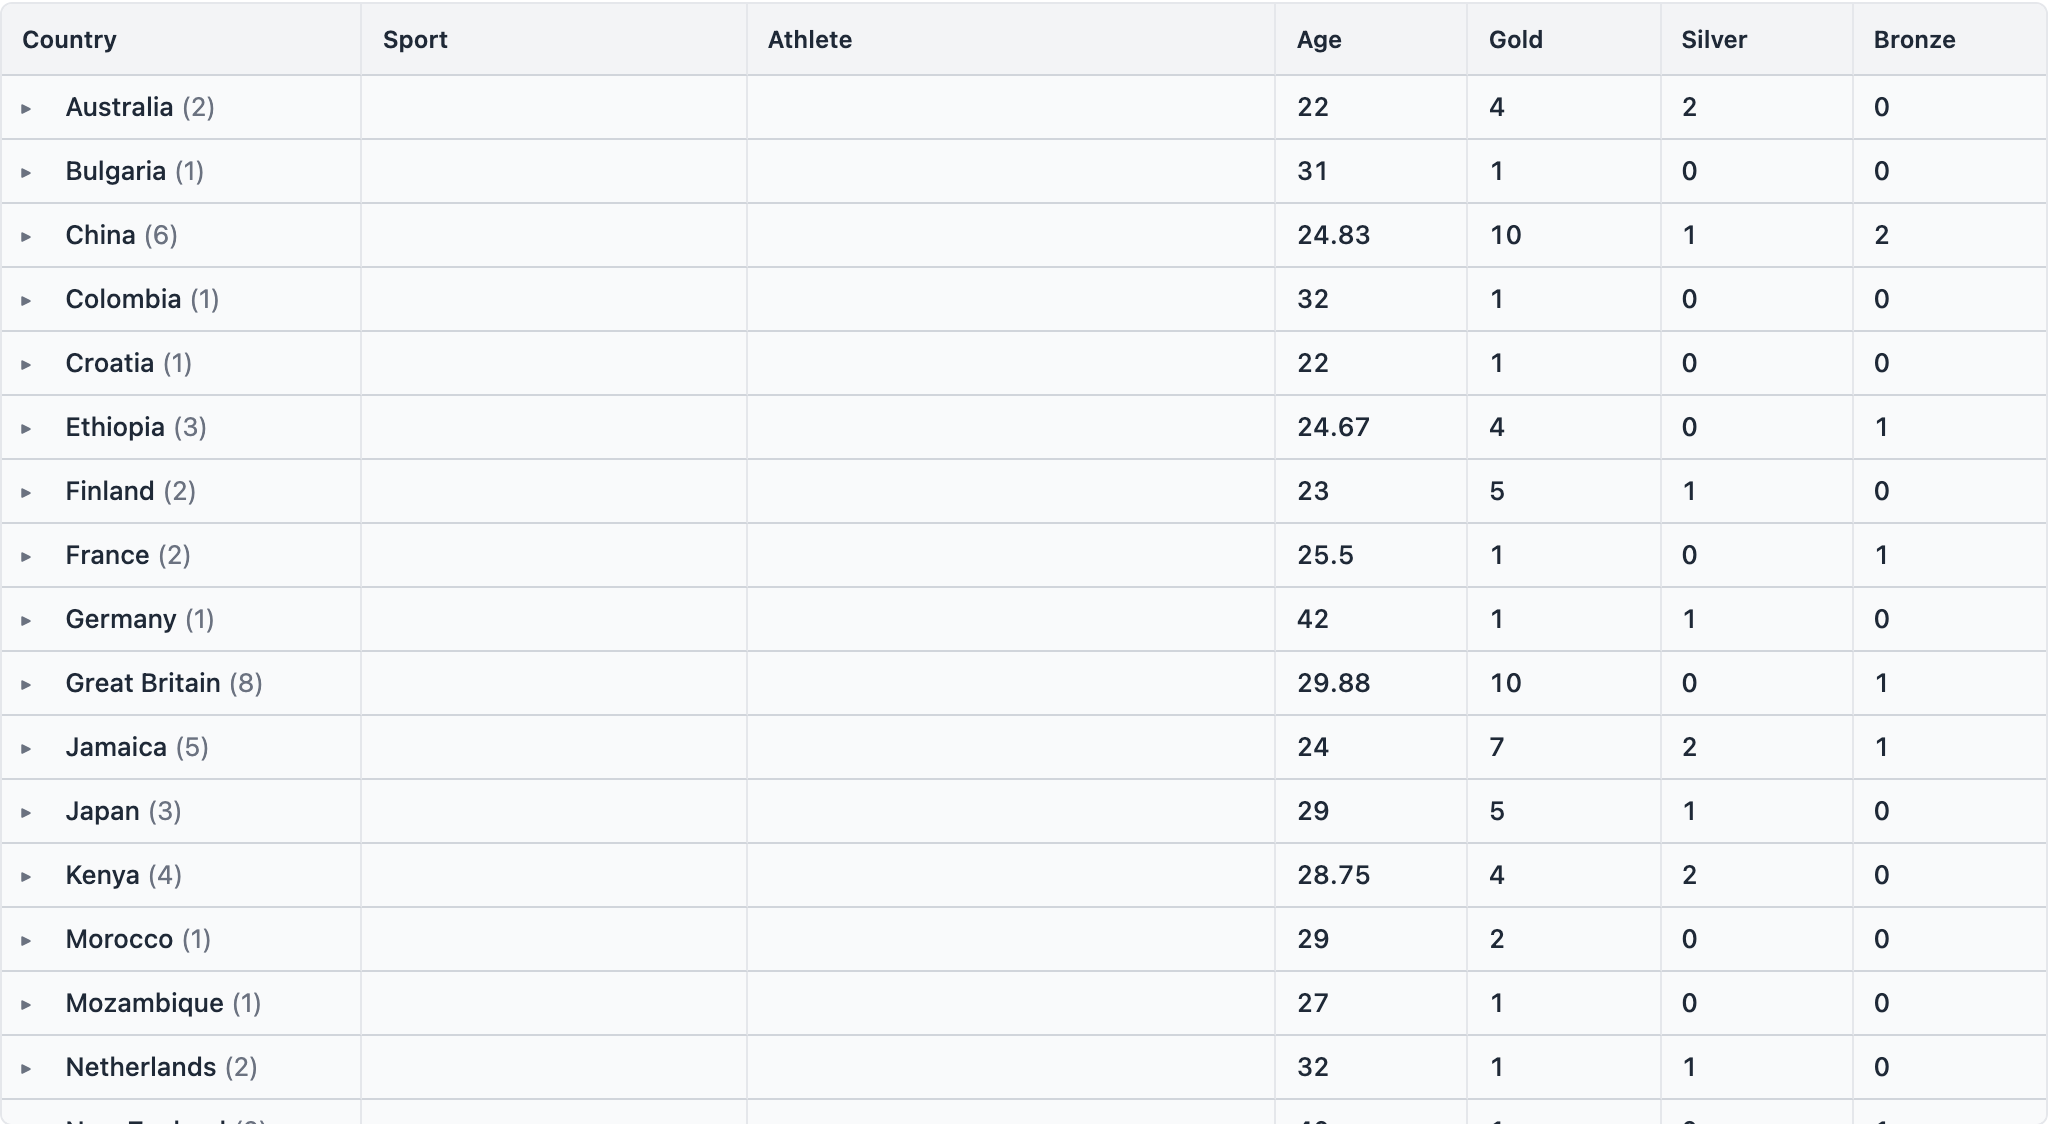
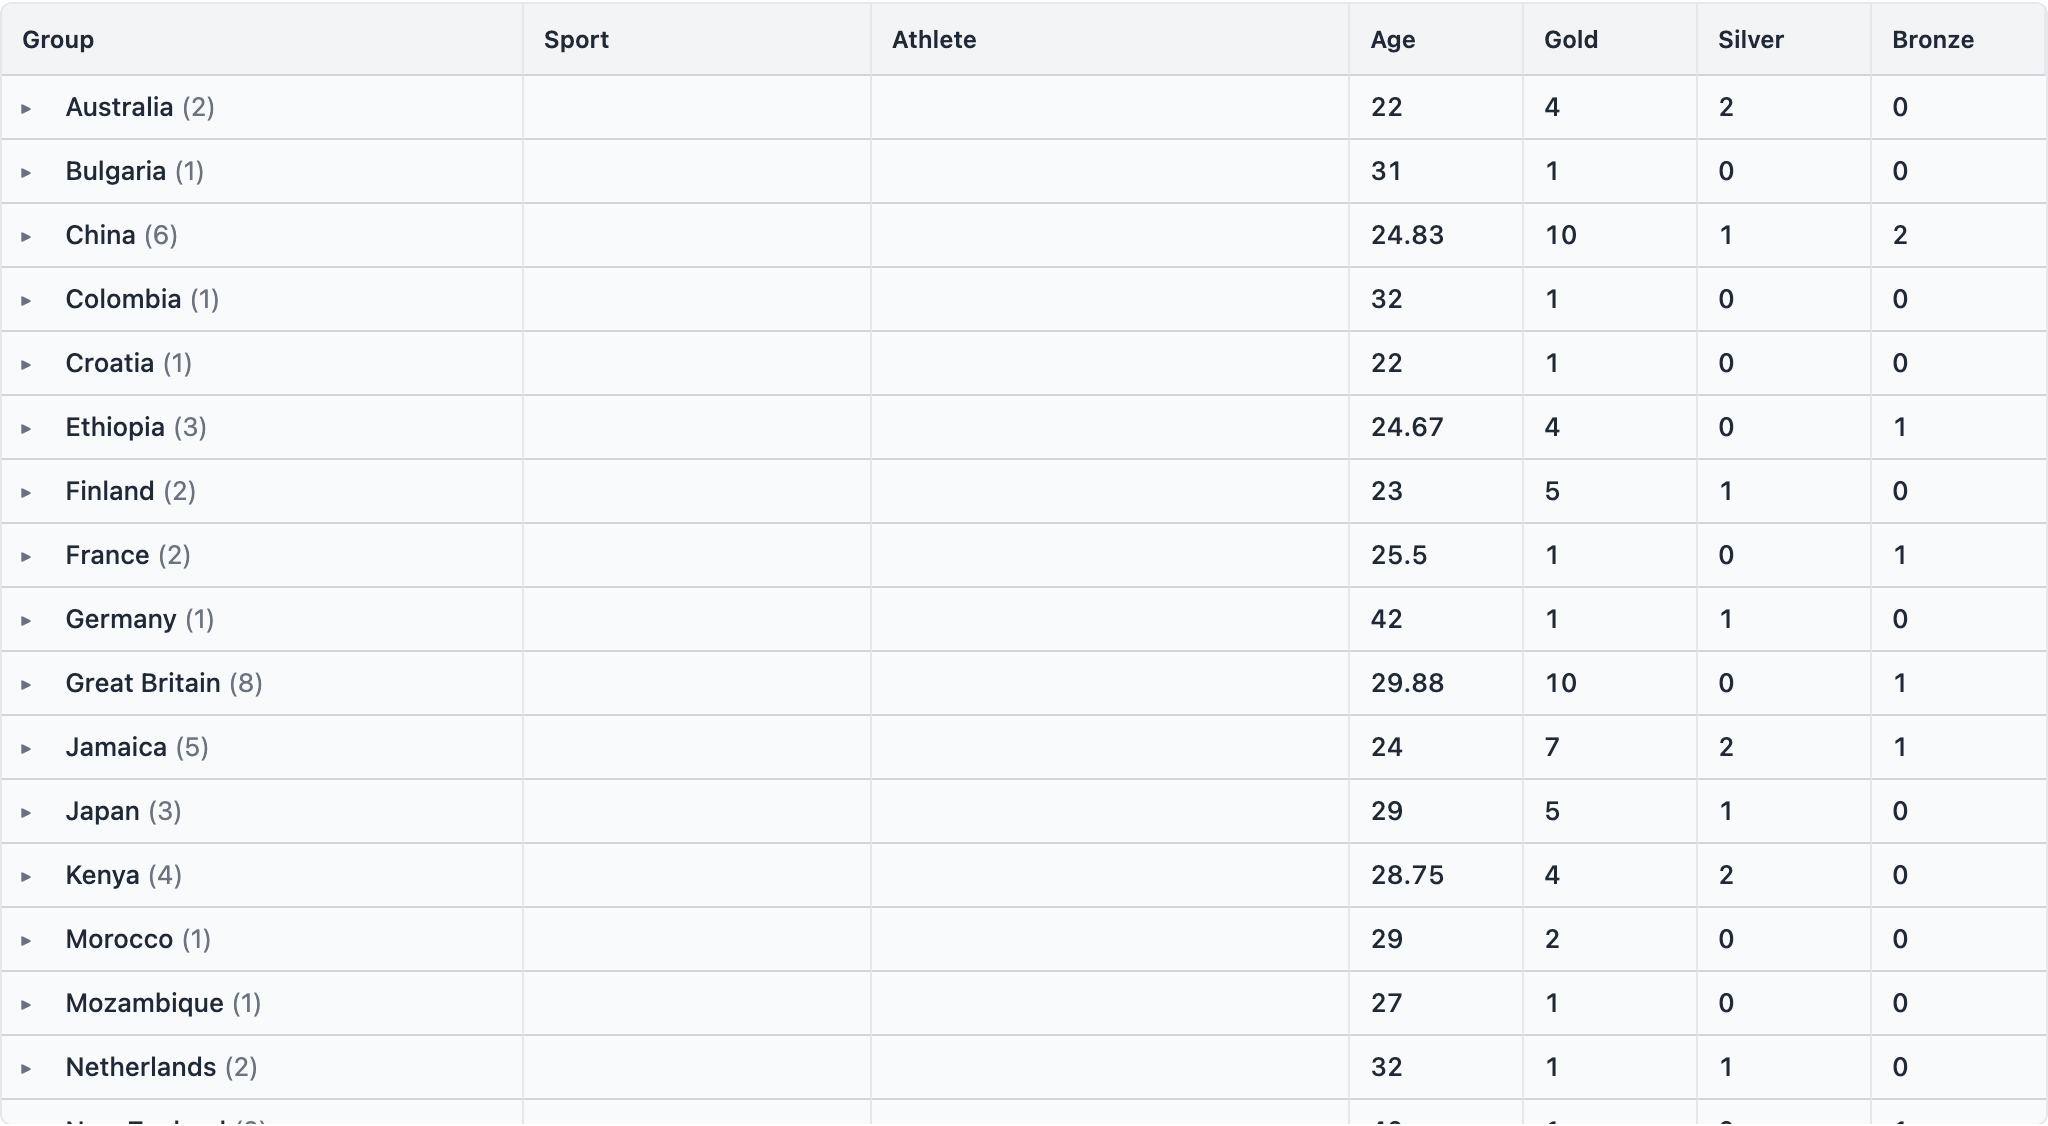
docs: update grouping screenshots + README for the auto Group column
New screenshots reflect the AG-Grid-style layout (Group column on the left with the indented hierarchy, grouped columns hidden). README + JS skill guide updated: new group-display-type attribute, clarified group-reorder-columns is inline-mode only, and rewritten 'How it renders' paragraph.

diff --git a/README.md b/README.md
@@ -122,11 +122,11 @@ Enter / Tab / blur and emit `grid:cellValueChanged`.
 
 ![A grid cell being edited inline with a focused text input](docs/images/grid-editing.png)
 
-**Row grouping & aggregation** — group by one or more columns; group rows roll up
-per-column aggregates (sum / avg / min / max / count) with the grouped column
-floated to the front. Collapsed here to country subtotals:
+**Row grouping & aggregation** — group by one or more columns; each group row
+rolls up per-column aggregates (sum / avg / min / max / count) in an auto **Group**
+column on the left. Collapsed here to country subtotals:
 
-![stimulus_grid grouped by country and collapsed to subtotals — each country row shows athlete count, total medals, and average age](docs/images/grid-grouping-collapsed.png)
+![stimulus_grid grouped by country and collapsed to subtotals — the Group column on the left lists each country with its athlete count, and total medals + average age are aggregated under their headers](docs/images/grid-grouping-collapsed.png)
 
 ## Grid attributes (`data-grid-*-value`)
 
@@ -212,7 +212,7 @@ Group rows by one or more columns and roll up per-group aggregates — turning t
 grid into a lightweight reporting view. Grouping runs **client-side** and composes
 with sort, filter, pagination and virtual scrolling.
 
-![stimulus_grid grouped by country — each group row shows the value, leaf count, and per-column aggregates (medal sums, average age), with the grouped column floated to the front and a disclosure caret to expand/collapse](docs/images/grid-grouping.png)
+![stimulus_grid grouped by country then sport — the auto Group column on the left holds the indented hierarchy with leaf counts, and per-column aggregates (medal sums, average age) line up under their headers; the grouped columns themselves are hidden from the main display](docs/images/grid-grouping.png)
 
 Declare it on the grid element:
 
@@ -231,7 +231,8 @@ Declare it on the grid element:
 | `row-group-cols` | JSON array of fields to group by, in hierarchy order (`["country","sport"]` nests sport under country) |
 | `agg-funcs` | JSON map of `{ field: fn }`, where `fn` is `sum`, `avg`, `min`, `max`, `count`, `first`, or `last` |
 | `group-default-expanded` | `-1` all expanded (default) · `0` all collapsed · `N` expand the first N levels |
-| `group-reorder-columns` | float grouped columns to the front while grouping (default `true`; `false` keeps your column order) |
+| `group-display-type` | `'singleColumn'` (default) — auto **Group** column on the left, grouped columns hidden — or `'inline'` to put the label in the grouped column's own cell and keep it visible |
+| `group-reorder-columns` | (`'inline'` mode only) float grouped columns to the front while grouping (default `true`; `false` keeps your column order) |
 
 …or drive it at runtime through the API:
 
@@ -244,11 +245,14 @@ api.setColumnAggFunc("gold", "sum")   // sum · avg · min · max · count · fi
 api.expandAll(); api.collapseAll()    // …or click a group row to toggle it
 ```
 
-**How it renders.** Each group row shows the group value + leaf `(count)` in the
-grouped column, with each column's aggregate lined up underneath. Numeric
-aggregates skip non-numeric values; `count` counts leaves. Leaves stay sorted
-within their group by the active sort model, and grouped columns float to the
-front so the hierarchy reads left-to-right (opt out with `group-reorder-columns`).
+**How it renders.** By default the grid inserts an **auto Group column** on the
+left whose cells hold the indented value + leaf `(count)` for each group row;
+the columns being grouped are hidden from the main display (their values live in
+the Group column). Aggregates line up under every other column on the group row.
+Numeric aggregates skip non-numeric values; `count` counts leaves. Leaves stay
+sorted within their group by the active sort model. Switch to
+`data-grid-group-display-type-value="inline"` to put the label in the grouped
+column's own cell instead and keep that column visible.
 
 **Events:** `grid:columnRowGroupChanged` (`{ rowGroupCols }`) fires when the
 grouping changes; `grid:groupToggled` (`{ groupId, expanded }`) when a group is

diff --git a/skills/stimulus-grid-js/SKILL.md b/skills/stimulus-grid-js/SKILL.md
@@ -73,7 +73,7 @@ Each row needs a stable id. Default field is `id`; override with
 `data-grid-pagination-value` · `data-grid-page-size-value` · `data-grid-row-height-value` ·
 `data-grid-header-height-value` · `data-grid-virtual-value` · `data-grid-virtual-threshold-value` ·
 `data-grid-height-value` · `data-grid-get-row-id-value` · `data-grid-dom-layout-value` (`autoHeight`) ·
-`data-grid-row-group-cols-value` (JSON array) · `data-grid-agg-funcs-value` (JSON `{field:fn}`) · `data-grid-group-default-expanded-value` (`-1` all · `0` none · `N` levels) · `data-grid-group-reorder-columns-value` (default `true`).
+`data-grid-row-group-cols-value` (JSON array) · `data-grid-agg-funcs-value` (JSON `{field:fn}`) · `data-grid-group-default-expanded-value` (`-1` all · `0` none · `N` levels) · `data-grid-group-display-type-value` (`'singleColumn'` default · `'inline'`) · `data-grid-group-reorder-columns-value` (inline mode only, default `true`).
 
 ## Column attributes (on each `<th data-controller="header-cell">`)
 
@@ -210,13 +210,14 @@ api.setColumnAggFunc("gold", "sum")   // sum · avg · min · max · count · fi
 api.expandAll(); api.collapseAll()    // or click a group row to toggle it
 ```
 
-Each group row shows the value + leaf `(count)` in the grouped column and the
-aggregate under each aggregated column; numeric aggregates skip non-numbers.
-Grouping is client-side and composes after sort, so leaves stay sorted within
-their group. Grouped columns float to the front while grouping (set
-`data-grid-group-reorder-columns-value="false"` to keep your column order). Group
-rows aren't selectable or editable; cell selection, CSV export and
-`getSelectedRows()` operate on leaf rows only.
+By default the grid renders an **auto Group column** on the left with the
+indented hierarchy + leaf `(count)`; the grouped columns themselves are hidden
+from the main display and each row's aggregates line up under the remaining
+columns. Numeric aggregates skip non-numbers. Set
+`data-grid-group-display-type-value="inline"` to put the label in the grouped
+column's own cell instead (keeping it visible). Grouping is client-side and
+composes after sort. Group rows aren't selectable or editable; cell selection,
+CSV export and `getSelectedRows()` operate on leaf rows only.
 
 ## Gotchas
 
